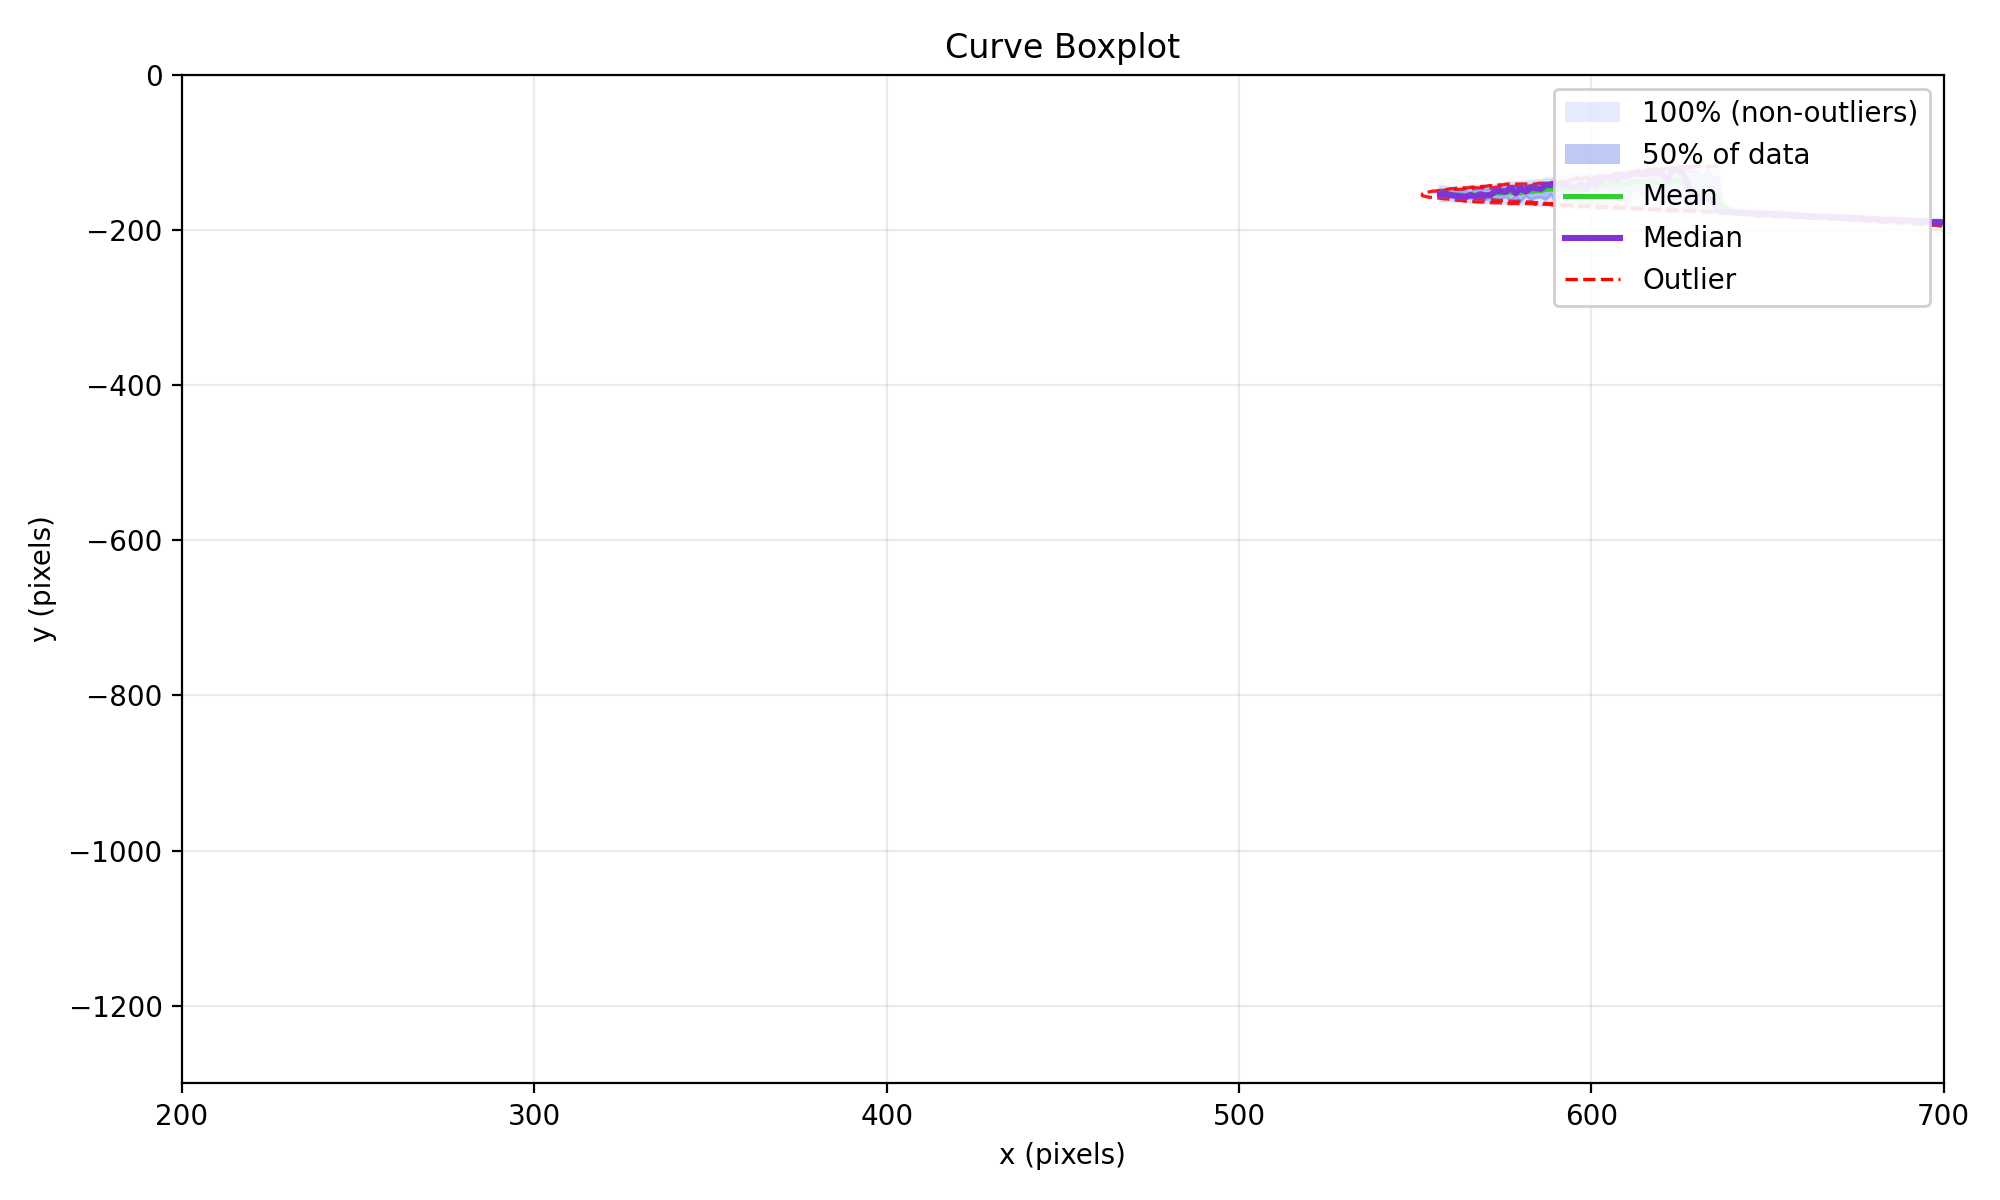
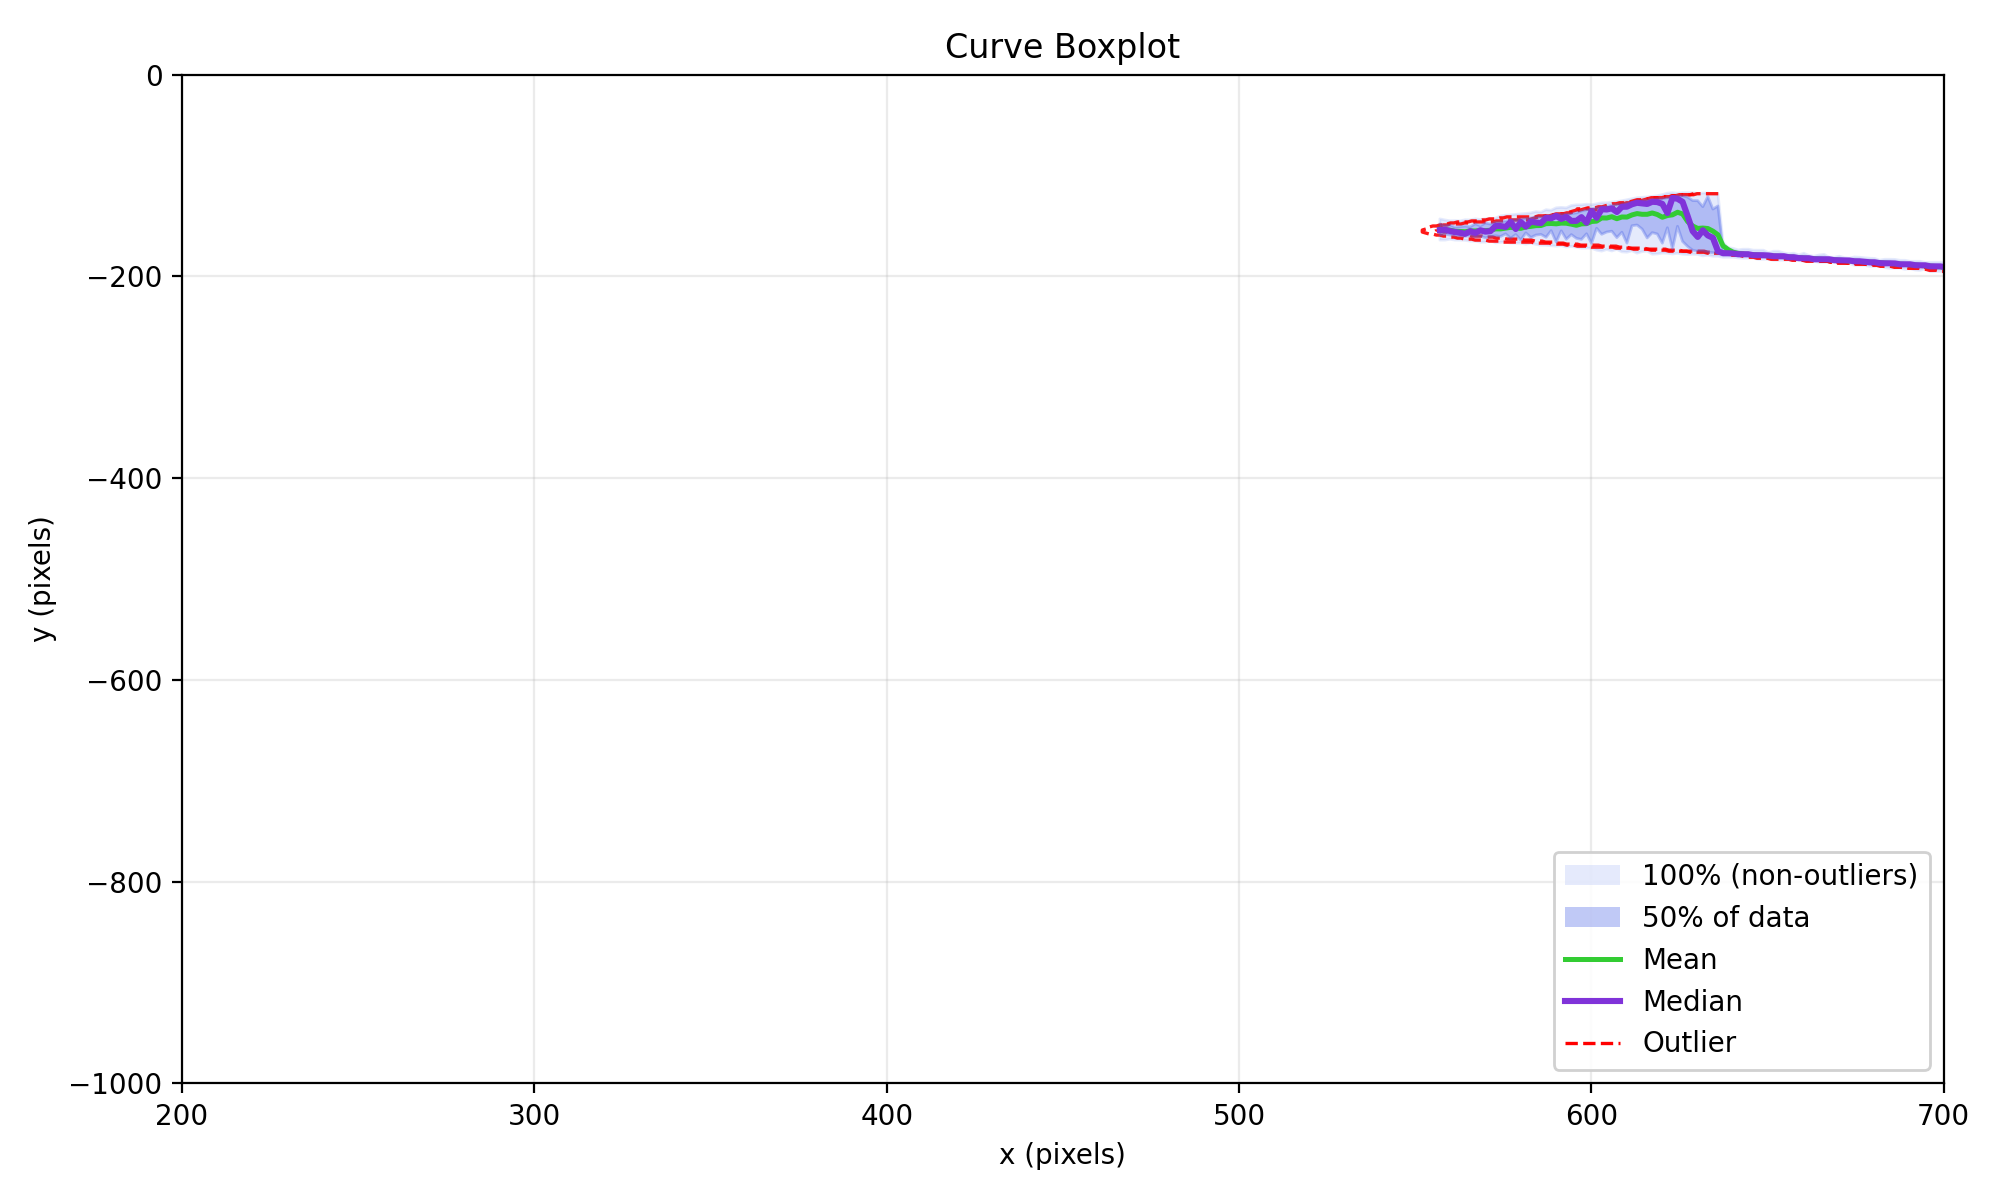
c

diff --git a/save_predict/shoreline_jsons/csv/spaghetti_plot.py b/save_predict/shoreline_jsons/csv/spaghetti_plot.py
@@ -320,7 +320,7 @@ def plot_spaghetti(curves: List[Tuple[np.ndarray, np.ndarray, str]], out_png: st
     if ylim is not None:
         plt.ylim(*ylim)
     if show_legend and overlay_stats is not None and labels:
-        plt.legend(handles, labels, loc="upper right", framealpha=0.9)
+        plt.legend(handles, labels, loc="lower right", framealpha=0.9)
     os.makedirs(os.path.dirname(out_png) or ".", exist_ok=True)
     plt.tight_layout()
     plt.savefig(out_png, dpi=200)
@@ -430,7 +430,7 @@ def main():
     ap.add_argument("--cmap", default="tab20", help="Matplotlib colormap name to cycle through for curves")
     # Fixed default axes so all plots share the same view; override if needed
     ap.add_argument("--xlim", type=float, nargs=2, default=[200.0, 700.0], help="x-limits: xmin xmax (default 0 1300)")
-    ap.add_argument("--ylim", type=float, nargs=2, default=[ -1300.0, 0.0], help="y-limits: ymin ymax (default 0 -1000; inverted)")
+    ap.add_argument("--ylim", type=float, nargs=2, default=[ -1000.0, 0.0], help="y-limits: ymin ymax (default 0 -1000; inverted)")
     ap.add_argument("--require_vertex_index", action="store_true", help="Skip files lacking vertex_index to avoid spurious connectors.")
     ap.add_argument("--max_jump_dist", type=float, default=25, help="If set, split a curve when adjacent vertices are farther than this (pixels).")
     ap.add_argument("--report_top_jumps", type=int, default=10, help="Print the top N curves by largest adjacent-vertex jump distance.")
